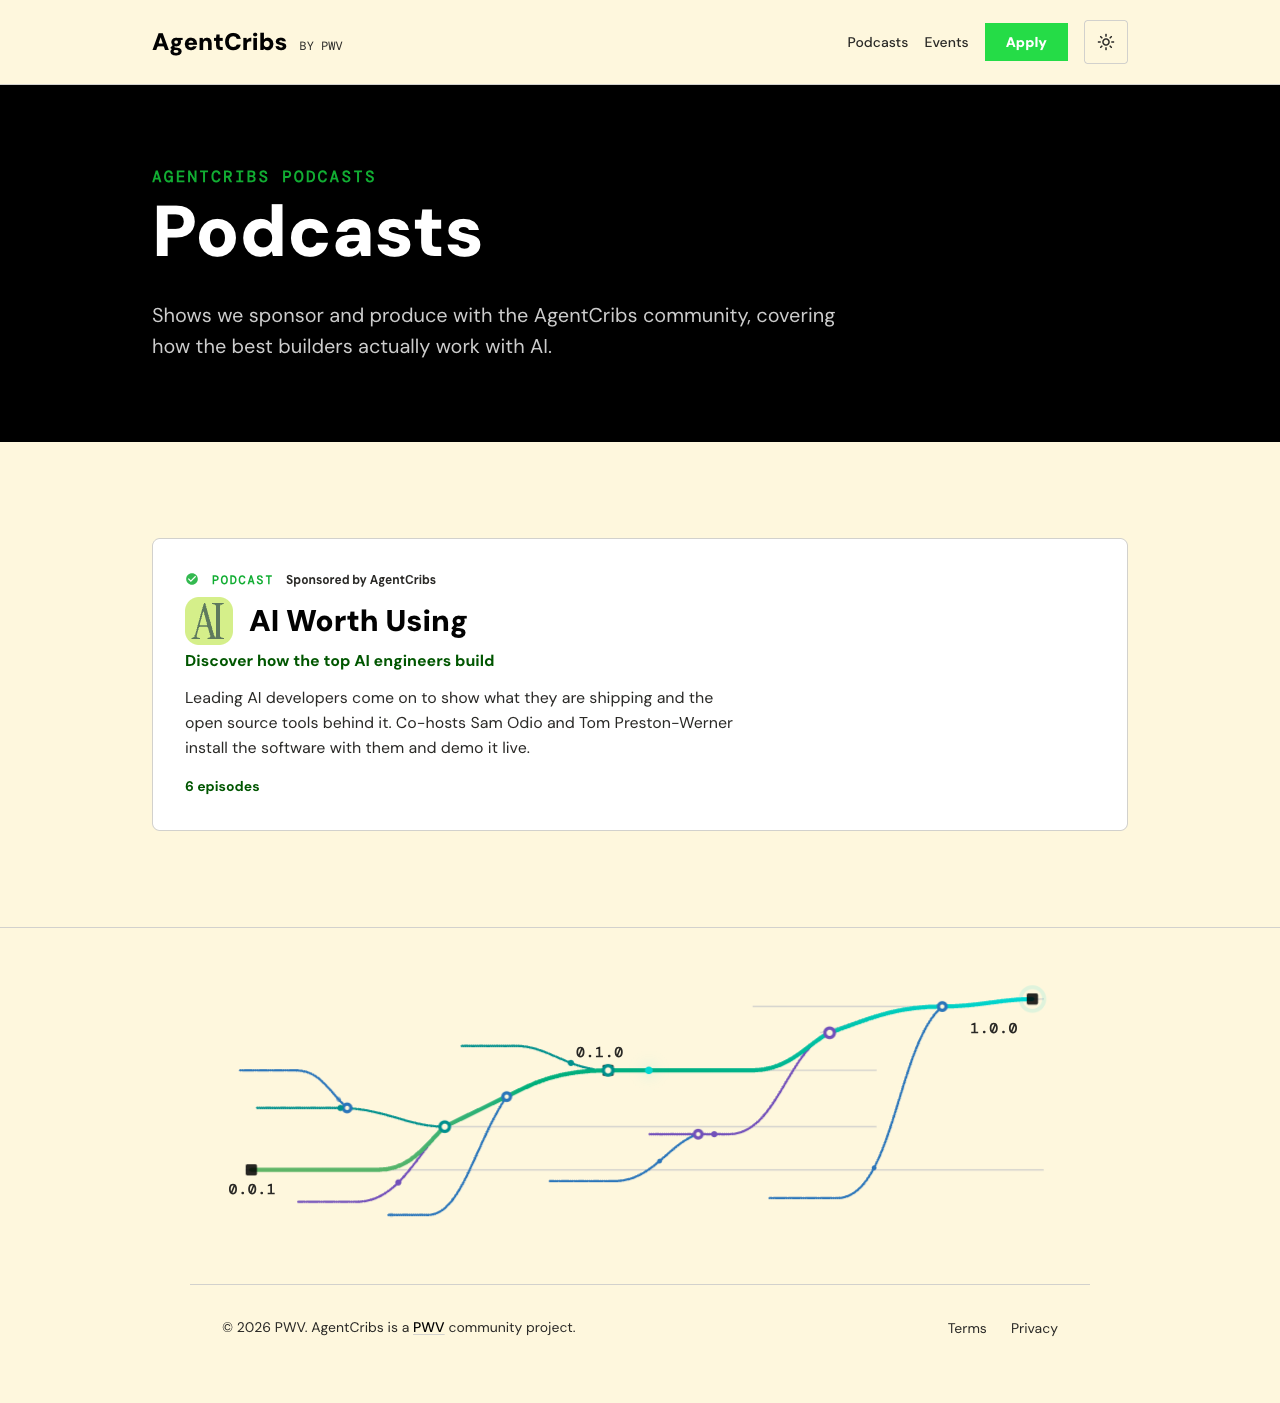
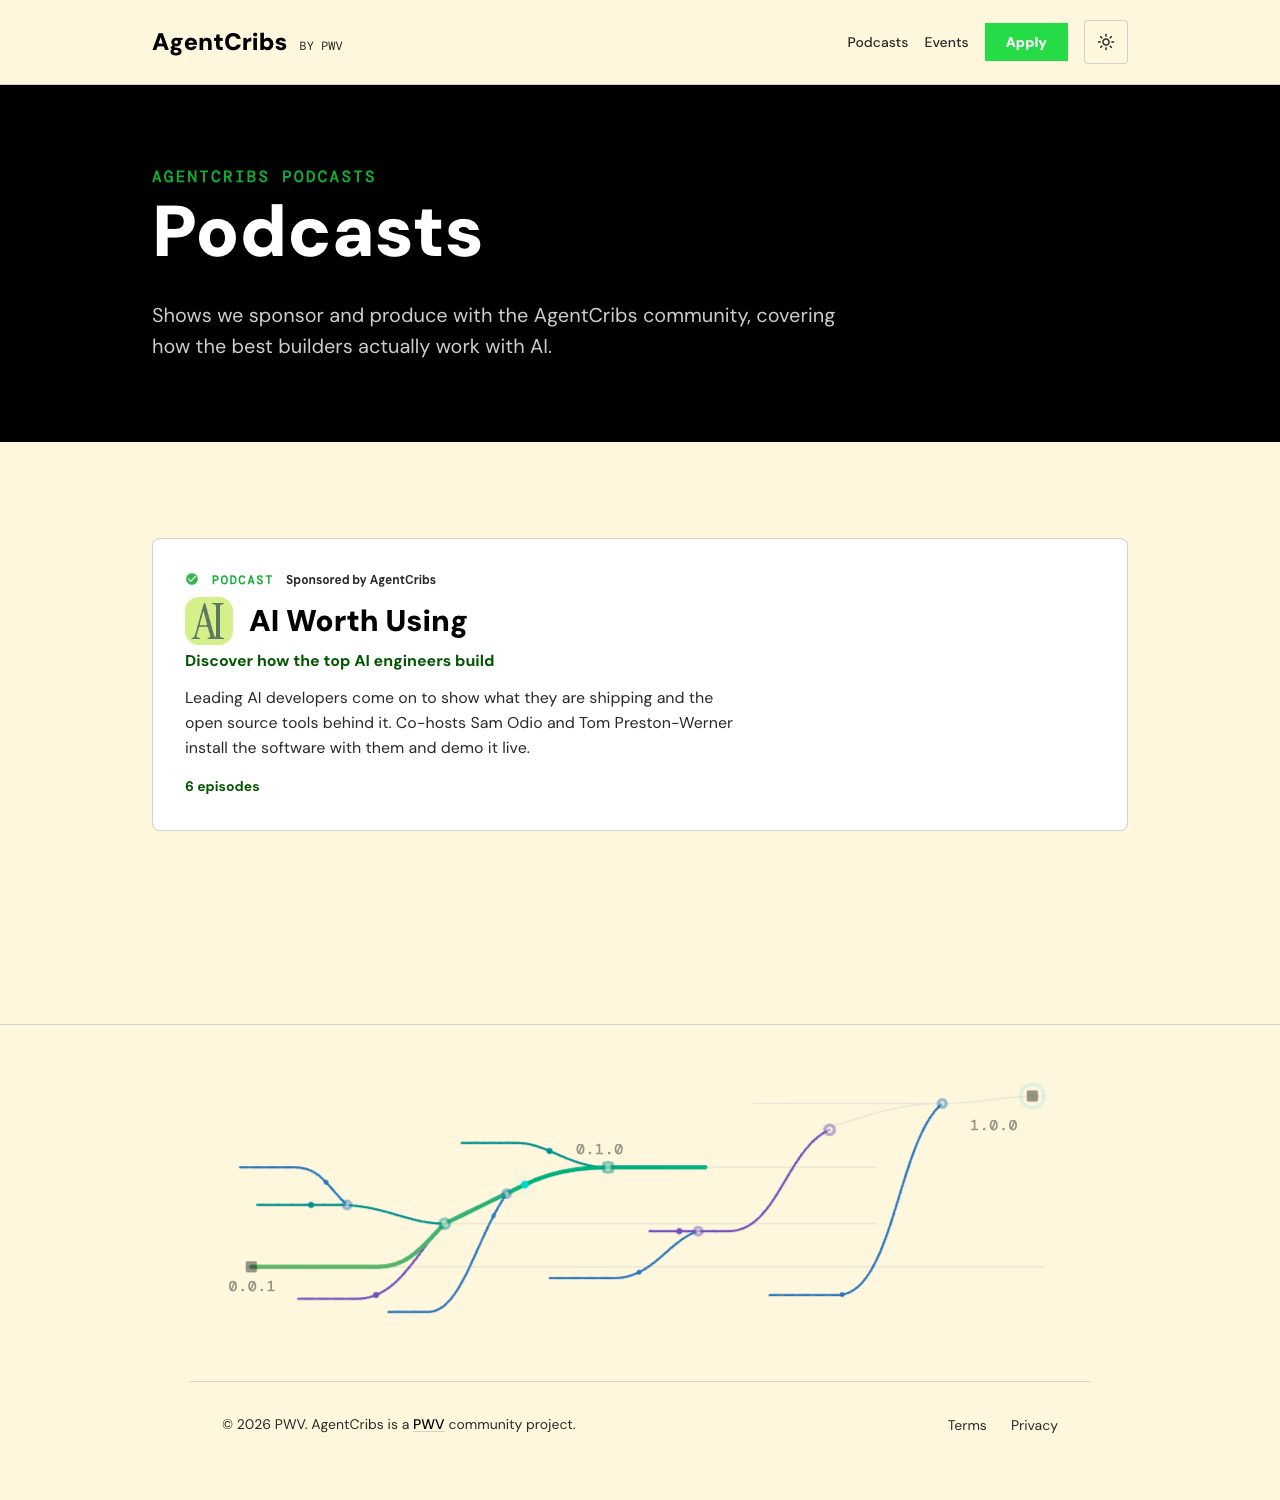
screenshots

diff --git a/.commandcode/taste/screenshots/taste.md b/.commandcode/taste/screenshots/taste.md
@@ -1,0 +1,7 @@
+# screenshots
+- For team previews meant to be reviewed offline, deliver full-page screenshots saved as PNGs in the project's `screenshots/` directory (named `<page>-full.png`), not just live URLs. Confidence: 0.7
+- Before capturing a full-page screenshot, scroll stepwise through the page (repeated `scrollBy` with pauses) to trigger lazy-loaded images and embeds, wait until every `<img>` reports `complete && naturalWidth > 0`, then scroll back to top and capture — otherwise below-the-fold assets render as black boxes. Confidence: 0.8
+- Lazy iframes (video/trailer embeds) need extra dwell time centered in view (~5–10s) before they mount and render; verify with a quick viewport screenshot before the final full-page capture. Confidence: 0.7
+- Run browser automation in an isolated named session (e.g., `agent-browser --session <project>-shots`) instead of the default shared session, so concurrently open human/other-agent tabs can't hijack or pollute captures. Confidence: 0.7
+- Always visually verify each captured screenshot by reading the image back and checking for black boxes or missing content before handing it off. Confidence: 0.7
+- Clean up fully after browser capture tasks: delete temporary check screenshots, close the browser session, and kill the background dev server that was started for the task. Confidence: 0.7
